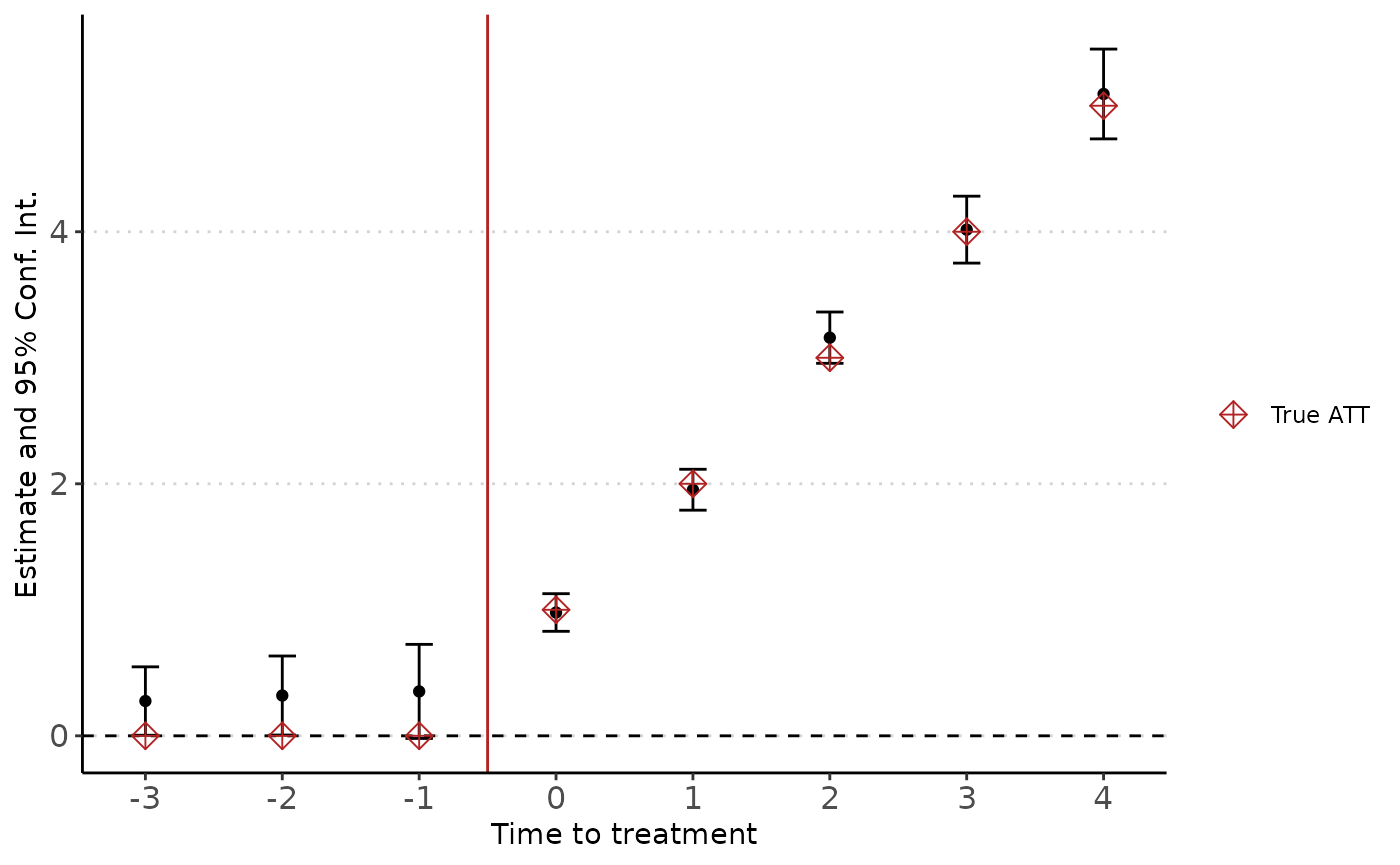
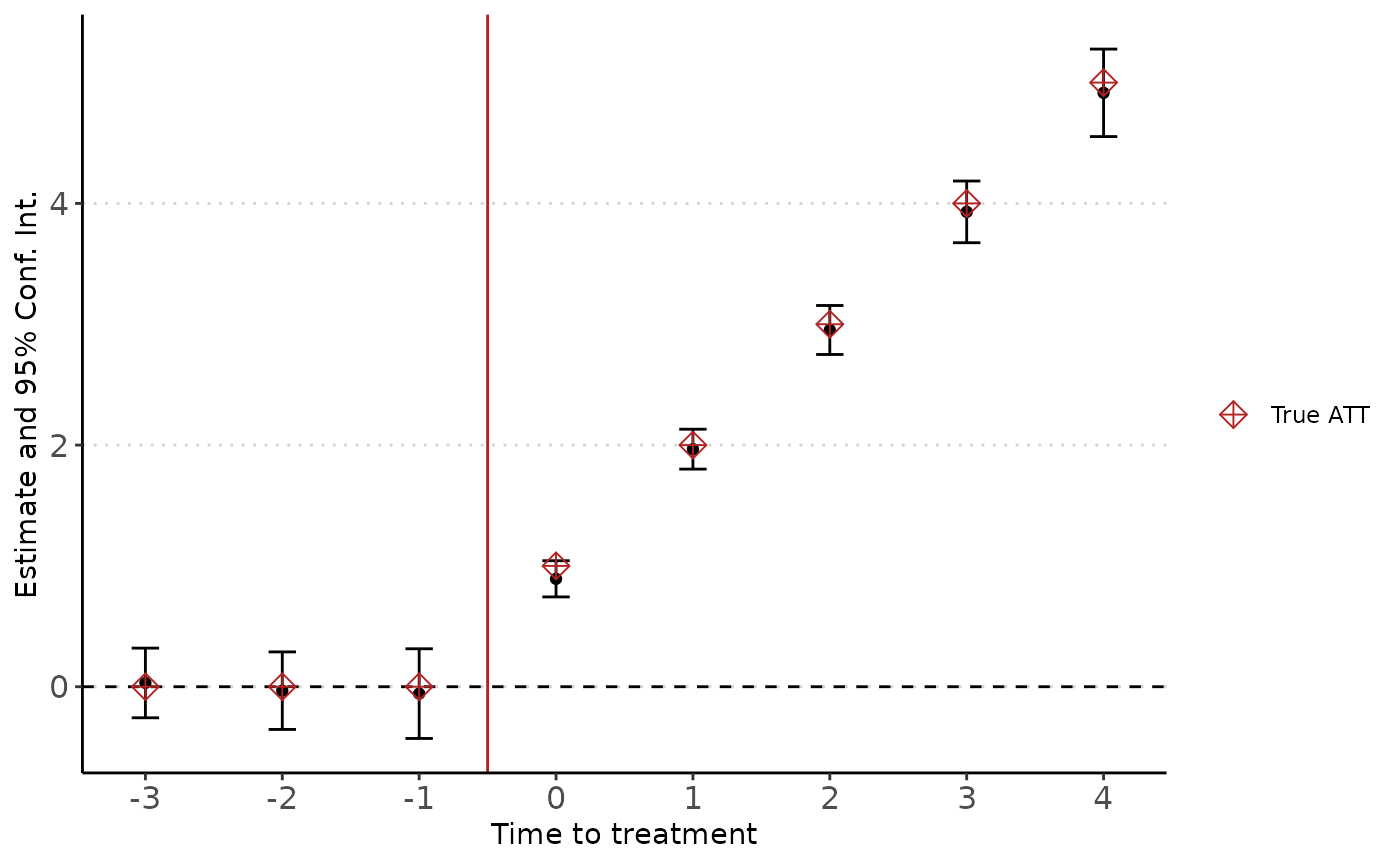
Built site for didImputation: 0.0.4@6e29a94

diff --git a/articles/Getting_started.html b/articles/Getting_started.html
@@ -175,33 +175,33 @@
 <span class="co">#&gt; Counterfactual model:  y ~ 0 | i + t </span>
 <span class="co">#&gt; Number of cohorts:  4 </span>
 <span class="co">#&gt; Observations: 12000 </span>
-<span class="co">#&gt; |-Treated:    5656 </span>
-<span class="co">#&gt; |-Untreated:  6344 </span>
+<span class="co">#&gt; |-Treated:    5477 </span>
+<span class="co">#&gt; |-Untreated:  6523 </span>
 <span class="co">#&gt;       Estimate Std. Error t value Pr(&gt;|t|) </span>
-<span class="co">#&gt; k::-3 0.276    0.138       1.993  0.046**  </span>
-<span class="co">#&gt; k::-2 0.320    0.160       1.999  0.046**  </span>
-<span class="co">#&gt; k::-1 0.352    0.190       1.850  0.064*   </span>
-<span class="co">#&gt; k::0  0.979    0.076      12.848  &lt;0.001***</span>
-<span class="co">#&gt; k::1  1.953    0.083      23.583  &lt;0.001***</span>
-<span class="co">#&gt; k::2  3.160    0.104      30.417  &lt;0.001***</span>
-<span class="co">#&gt; k::3  4.017    0.135      29.648  &lt;0.001***</span>
-<span class="co">#&gt; k::4  5.093    0.182      28.016  &lt;0.001***</span>
+<span class="co">#&gt; k::-3  0.031   0.147       0.213  0.831    </span>
+<span class="co">#&gt; k::-2 -0.033   0.164      -0.199  0.842    </span>
+<span class="co">#&gt; k::-1 -0.057   0.189      -0.301  0.763    </span>
+<span class="co">#&gt; k::0   0.893   0.076      11.687  &lt;0.001***</span>
+<span class="co">#&gt; k::1   1.966   0.084      23.347  &lt;0.001***</span>
+<span class="co">#&gt; k::2   2.952   0.103      28.543  &lt;0.001***</span>
+<span class="co">#&gt; k::3   3.930   0.130      30.166  &lt;0.001***</span>
+<span class="co">#&gt; k::4   4.915   0.185      26.607  &lt;0.001***</span>
 <span class="co">#&gt; ---</span>
 <span class="co">#&gt; Signif. Code: 0 '***' 0.01 '**' 0.05 '*' 0.1 '' 1 </span>
 <span class="co">#&gt; Wald stats for pre-trends:</span>
-<span class="co">#&gt; Wald (joint nullity): stat = 1.5263, p = 0.205471, on 3 and 6,335 DoF, VCOV: Clustered (i).</span></code></pre></div>
+<span class="co">#&gt; Wald (joint nullity): stat = 0.15983, p = 0.92337, on 3 and 6,514 DoF, VCOV: Clustered (i).</span></code></pre></div>
 <p>You can extract the coefficients table if you want to build your own plot or table.</p>
 <div class="sourceCode" id="cb6"><pre class="downlit sourceCode r">
 <code class="sourceCode R"><span class="va">est</span><span class="op">$</span><span class="va">coeftable</span>
-<span class="co">#&gt;        Estimate Std. Error   t value      Pr(&gt;|t|)</span>
-<span class="co">#&gt; k::-3 0.2759762 0.13847661  1.992944  4.640330e-02</span>
-<span class="co">#&gt; k::-2 0.3197968 0.16000348  1.998686  4.577749e-02</span>
-<span class="co">#&gt; k::-1 0.3524048 0.19047179  1.850168  6.443680e-02</span>
-<span class="co">#&gt; k::0  0.9785978 0.07616498 12.848396  8.781244e-38</span>
-<span class="co">#&gt; k::1  1.9528805 0.08280827 23.583158 5.738366e-123</span>
-<span class="co">#&gt; k::2  3.1595602 0.10387491 30.416972 3.276651e-203</span>
-<span class="co">#&gt; k::3  4.0167294 0.13548186 29.647729 3.628054e-193</span>
-<span class="co">#&gt; k::4  5.0932511 0.18179543 28.016386 1.026173e-172</span></code></pre></div>
+<span class="co">#&gt;          Estimate Std. Error    t value      Pr(&gt;|t|)</span>
+<span class="co">#&gt; k::-3  0.03131603 0.14710617  0.2128804  8.314419e-01</span>
+<span class="co">#&gt; k::-2 -0.03261878 0.16371543 -0.1992407  8.420947e-01</span>
+<span class="co">#&gt; k::-1 -0.05698903 0.18935428 -0.3009651  7.634724e-01</span>
+<span class="co">#&gt; k::0   0.89306213 0.07641660 11.6867564  1.489678e-31</span>
+<span class="co">#&gt; k::1   1.96622143 0.08421827 23.3467325 1.487620e-120</span>
+<span class="co">#&gt; k::2   2.95247943 0.10344120 28.5425872 3.471812e-179</span>
+<span class="co">#&gt; k::3   3.92999807 0.13027754 30.1663518 6.547043e-200</span>
+<span class="co">#&gt; k::4   4.91528399 0.18473964 26.6065480 5.701454e-156</span></code></pre></div>
 <p>Finally, we can plot the coefficients from the fully dynamic model using the <code>didplot</code> function (note that you can choose the confidence interval level to report). The results are very close to the true effects:</p>
 <div class="sourceCode" id="cb7"><pre class="downlit sourceCode r">
 <code class="sourceCode R"><span class="fu"><a href="../reference/didplot.html">didplot</a></span><span class="op">(</span><span class="va">est</span><span class="op">)</span> <span class="op">+</span>
@@ -224,21 +224,21 @@
 <span class="co">#&gt; Counterfactual model:  y ~ 0 | i + t </span>
 <span class="co">#&gt; Number of cohorts:  4 </span>
 <span class="co">#&gt; Observations: 12000 </span>
-<span class="co">#&gt; |-Treated:    5656 </span>
-<span class="co">#&gt; |-Untreated:  6344 </span>
+<span class="co">#&gt; |-Treated:    5477 </span>
+<span class="co">#&gt; |-Untreated:  6523 </span>
 <span class="co">#&gt;       Estimate Std. Error t value Pr(&gt;|t|) </span>
-<span class="co">#&gt; k::-3 0.276    0.138       1.993  0.046**  </span>
-<span class="co">#&gt; k::-2 0.320    0.160       1.999  0.046**  </span>
-<span class="co">#&gt; k::-1 0.352    0.190       1.850  0.064*   </span>
-<span class="co">#&gt; k::0  0.979    0.076      12.848  &lt;0.001***</span>
-<span class="co">#&gt; k::1  1.953    0.083      23.583  &lt;0.001***</span>
-<span class="co">#&gt; k::2  3.160    0.104      30.417  &lt;0.001***</span>
-<span class="co">#&gt; k::3  4.017    0.135      29.648  &lt;0.001***</span>
-<span class="co">#&gt; k::4  5.093    0.182      28.016  &lt;0.001***</span>
+<span class="co">#&gt; k::-3  0.031   0.147       0.213  0.831    </span>
+<span class="co">#&gt; k::-2 -0.033   0.164      -0.199  0.842    </span>
+<span class="co">#&gt; k::-1 -0.057   0.189      -0.301  0.763    </span>
+<span class="co">#&gt; k::0   0.893   0.076      11.687  &lt;0.001***</span>
+<span class="co">#&gt; k::1   1.966   0.084      23.347  &lt;0.001***</span>
+<span class="co">#&gt; k::2   2.952   0.103      28.543  &lt;0.001***</span>
+<span class="co">#&gt; k::3   3.930   0.130      30.166  &lt;0.001***</span>
+<span class="co">#&gt; k::4   4.915   0.185      26.607  &lt;0.001***</span>
 <span class="co">#&gt; ---</span>
 <span class="co">#&gt; Signif. Code: 0 '***' 0.01 '**' 0.05 '*' 0.1 '' 1 </span>
 <span class="co">#&gt; Wald stats for pre-trends:</span>
-<span class="co">#&gt; Wald (joint nullity): stat = 1.5263, p = 0.205471, on 3 and 6,335 DoF, VCOV: Clustered (i).</span></code></pre></div>
+<span class="co">#&gt; Wald (joint nullity): stat = 0.15983, p = 0.92337, on 3 and 6,514 DoF, VCOV: Clustered (i).</span></code></pre></div>
 </div>
 <div id="including-other-fixed-effects" class="section level2">
 <h2 class="hasAnchor">
@@ -262,21 +262,21 @@
 <span class="co">#&gt; Counterfactual model:  y ~ 0 | i + t + hdfefactor </span>
 <span class="co">#&gt; Number of cohorts:  4 </span>
 <span class="co">#&gt; Observations: 12000 </span>
-<span class="co">#&gt; |-Treated:    5575 </span>
-<span class="co">#&gt; |-Untreated:  6425 </span>
+<span class="co">#&gt; |-Treated:    5598 </span>
+<span class="co">#&gt; |-Untreated:  6402 </span>
 <span class="co">#&gt;       Estimate Std. Error t value Pr(&gt;|t|) </span>
-<span class="co">#&gt; k::-3 -0.167   0.143      -1.163  0.245    </span>
-<span class="co">#&gt; k::-2 -0.126   0.158      -0.795  0.427    </span>
-<span class="co">#&gt; k::-1  0.017   0.186       0.094  0.925    </span>
-<span class="co">#&gt; k::0   0.998   0.074      13.512  &lt;0.001***</span>
-<span class="co">#&gt; k::1   2.064   0.082      25.108  &lt;0.001***</span>
-<span class="co">#&gt; k::2   3.052   0.102      29.981  &lt;0.001***</span>
-<span class="co">#&gt; k::3   4.033   0.128      31.471  &lt;0.001***</span>
-<span class="co">#&gt; k::4   5.124   0.190      27.011  &lt;0.001***</span>
+<span class="co">#&gt; k::-3 -0.073   0.142      -0.510  0.61     </span>
+<span class="co">#&gt; k::-2 -0.078   0.158      -0.492  0.622    </span>
+<span class="co">#&gt; k::-1 -0.063   0.189      -0.336  0.737    </span>
+<span class="co">#&gt; k::0   0.884   0.076      11.580  &lt;0.001***</span>
+<span class="co">#&gt; k::1   1.855   0.084      22.141  &lt;0.001***</span>
+<span class="co">#&gt; k::2   2.831   0.103      27.582  &lt;0.001***</span>
+<span class="co">#&gt; k::3   3.870   0.131      29.651  &lt;0.001***</span>
+<span class="co">#&gt; k::4   4.683   0.189      24.781  &lt;0.001***</span>
 <span class="co">#&gt; ---</span>
 <span class="co">#&gt; Signif. Code: 0 '***' 0.01 '**' 0.05 '*' 0.1 '' 1 </span>
 <span class="co">#&gt; Wald stats for pre-trends:</span>
-<span class="co">#&gt; Wald (joint nullity): stat = 1.49337, p = 0.214182, on 3 and 6,377 DoF, VCOV: Clustered (i).</span></code></pre></div>
+<span class="co">#&gt; Wald (joint nullity): stat = 0.114351, p = 0.951735, on 3 and 6,354 DoF, VCOV: Clustered (i).</span></code></pre></div>
 </div>
 <div id="including-continuous-controls" class="section level2">
 <h2 class="hasAnchor">
@@ -300,28 +300,28 @@
 <span class="co">#&gt; Counterfactual model:  y ~ x1 | i + t </span>
 <span class="co">#&gt; Number of cohorts:  8 </span>
 <span class="co">#&gt; Observations: 20000 </span>
-<span class="co">#&gt; |-Treated:    9840 </span>
-<span class="co">#&gt; |-Untreated:  10160 </span>
+<span class="co">#&gt; |-Treated:    9533 </span>
+<span class="co">#&gt; |-Untreated:  10467 </span>
 <span class="co">#&gt;       Estimate Std. Error t value Pr(&gt;|t|) </span>
-<span class="co">#&gt; k::-5 -0.016   0.097       -0.161 0.872    </span>
-<span class="co">#&gt; k::-4  0.070   0.105        0.668 0.504    </span>
-<span class="co">#&gt; k::-3  0.011   0.119        0.092 0.927    </span>
-<span class="co">#&gt; k::-2  0.023   0.133        0.173 0.863    </span>
-<span class="co">#&gt; k::-1 -0.001   0.149       -0.007 0.994    </span>
-<span class="co">#&gt; x1     1.984   0.011      179.495 &lt;0.001***</span>
-<span class="co">#&gt; k::0   1.034   0.062       16.667 &lt;0.001***</span>
-<span class="co">#&gt; k::1   1.990   0.068       29.398 &lt;0.001***</span>
-<span class="co">#&gt; k::2   2.930   0.076       38.615 &lt;0.001***</span>
-<span class="co">#&gt; k::3   3.993   0.085       46.810 &lt;0.001***</span>
-<span class="co">#&gt; k::4   4.942   0.099       49.989 &lt;0.001***</span>
-<span class="co">#&gt; k::5   6.039   0.116       52.246 &lt;0.001***</span>
-<span class="co">#&gt; k::6   6.903   0.139       49.809 &lt;0.001***</span>
-<span class="co">#&gt; k::7   7.914   0.172       45.990 &lt;0.001***</span>
-<span class="co">#&gt; k::8   8.982   0.241       37.203 &lt;0.001***</span>
+<span class="co">#&gt; k::-5 -0.102   0.101       -1.012 0.312    </span>
+<span class="co">#&gt; k::-4  0.054   0.103        0.521 0.602    </span>
+<span class="co">#&gt; k::-3  0.056   0.118        0.479 0.632    </span>
+<span class="co">#&gt; k::-2 -0.021   0.131       -0.161 0.872    </span>
+<span class="co">#&gt; k::-1  0.034   0.142        0.241 0.81     </span>
+<span class="co">#&gt; x1     1.973   0.011      173.689 &lt;0.001***</span>
+<span class="co">#&gt; k::0   0.984   0.063       15.708 &lt;0.001***</span>
+<span class="co">#&gt; k::1   1.959   0.067       29.437 &lt;0.001***</span>
+<span class="co">#&gt; k::2   2.935   0.076       38.456 &lt;0.001***</span>
+<span class="co">#&gt; k::3   4.040   0.082       49.021 &lt;0.001***</span>
+<span class="co">#&gt; k::4   5.027   0.099       50.719 &lt;0.001***</span>
+<span class="co">#&gt; k::5   5.902   0.111       53.000 &lt;0.001***</span>
+<span class="co">#&gt; k::6   6.966   0.130       53.573 &lt;0.001***</span>
+<span class="co">#&gt; k::7   7.975   0.169       47.129 &lt;0.001***</span>
+<span class="co">#&gt; k::8   9.015   0.243       37.130 &lt;0.001***</span>
 <span class="co">#&gt; ---</span>
 <span class="co">#&gt; Signif. Code: 0 '***' 0.01 '**' 0.05 '*' 0.1 '' 1 </span>
 <span class="co">#&gt; Wald stats for pre-trends:</span>
-<span class="co">#&gt; Wald (joint nullity): stat = 5,387.1, p &lt; 2.2e-16, on 6 and 10,144 DoF, VCOV: Clustered (i).</span></code></pre></div>
+<span class="co">#&gt; Wald (joint nullity): stat = 5,052.2, p &lt; 2.2e-16, on 6 and 10,451 DoF, VCOV: Clustered (i).</span></code></pre></div>
 </div>
 <div id="heterogeneity" class="section level2">
 <h2 class="hasAnchor">
